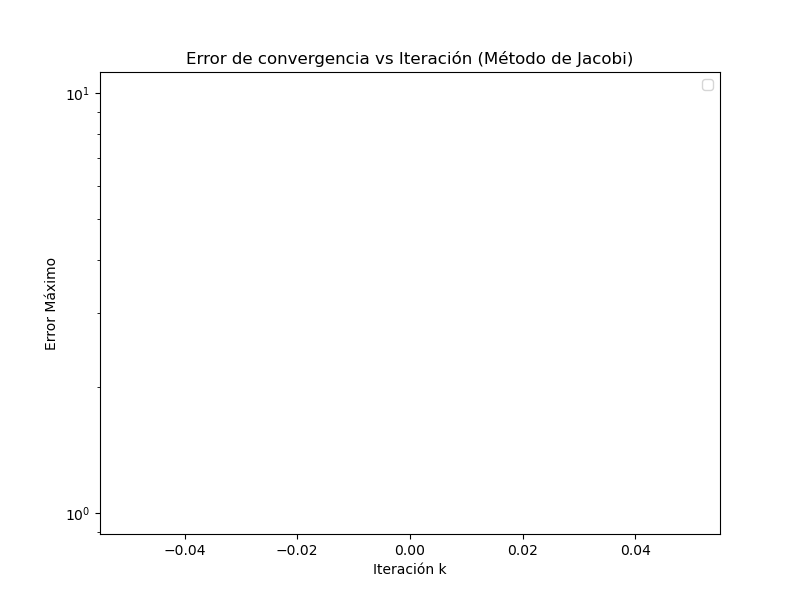
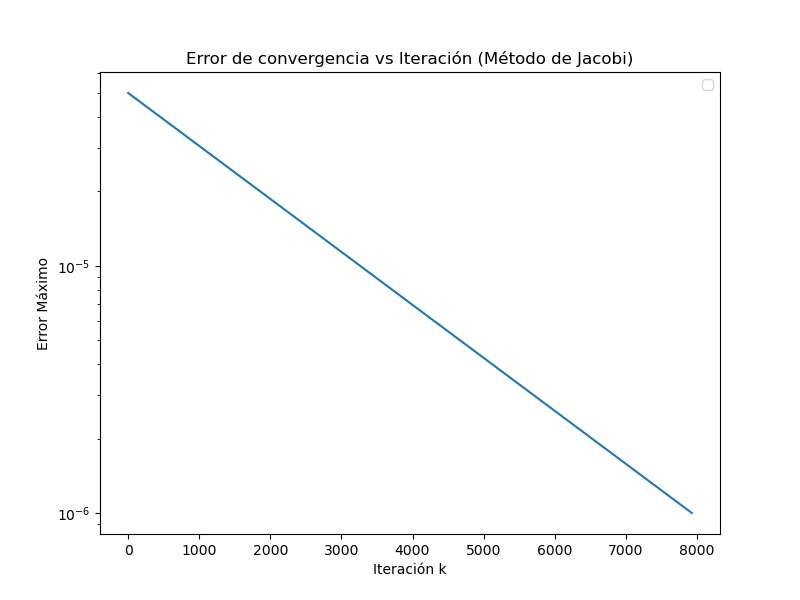
Agregar cambios en los bucles while y for en cuanto a la iteración de errores. Modificar el archivo de las gráficas y generar

diff --git a/poisson_1d_Jacobi.cpp b/poisson_1d_Jacobi.cpp
@@ -83,8 +83,8 @@ int main() {
     // Procedemos a realizar el ciclo iterativo de Jacobi.
     // El bucle while realiza su aparición bajo este contexto.
 
-    while (error_conv > tol && k > max_iter) {
-        error_conv = 0.0;
+    while (error_conv > tol && k < max_iter) {
+        // Aquí había un error que se encontraba generando problemas al iterar, se elimina por completo el error_conv = 0.0.
 
         // Procedemos a actualizar los puntos anteriores, donde podemos utilizar un bucle for, para poder ejecutar los puntos anteriores.
 
@@ -95,10 +95,12 @@ int main() {
         // Calculamos el error máximo de convergencia entre iteraciones.
         // Para esto ocupamos un segundo bucle for.
 
+        double error_actual = 0.0;
+
         for (int i = 1; i < N; ++i) {
             double diferencia = std::abs(u_new[i] - u[i]);
-            if (diferencia > error_conv) {
-                error_conv = diferencia;
+            if (diferencia > error_actual) {
+                error_actual = diferencia;
             }
         }
 
@@ -107,6 +109,10 @@ int main() {
         for (int i = 1; i < N; ++i) {
             u[i] = u_new[i];
         }
+
+        // Y colocamos el nombre de la variable para actualizar el error.
+
+        error_conv = error_actual;
 
         k++;
         historial_error.push_back(error_conv);
